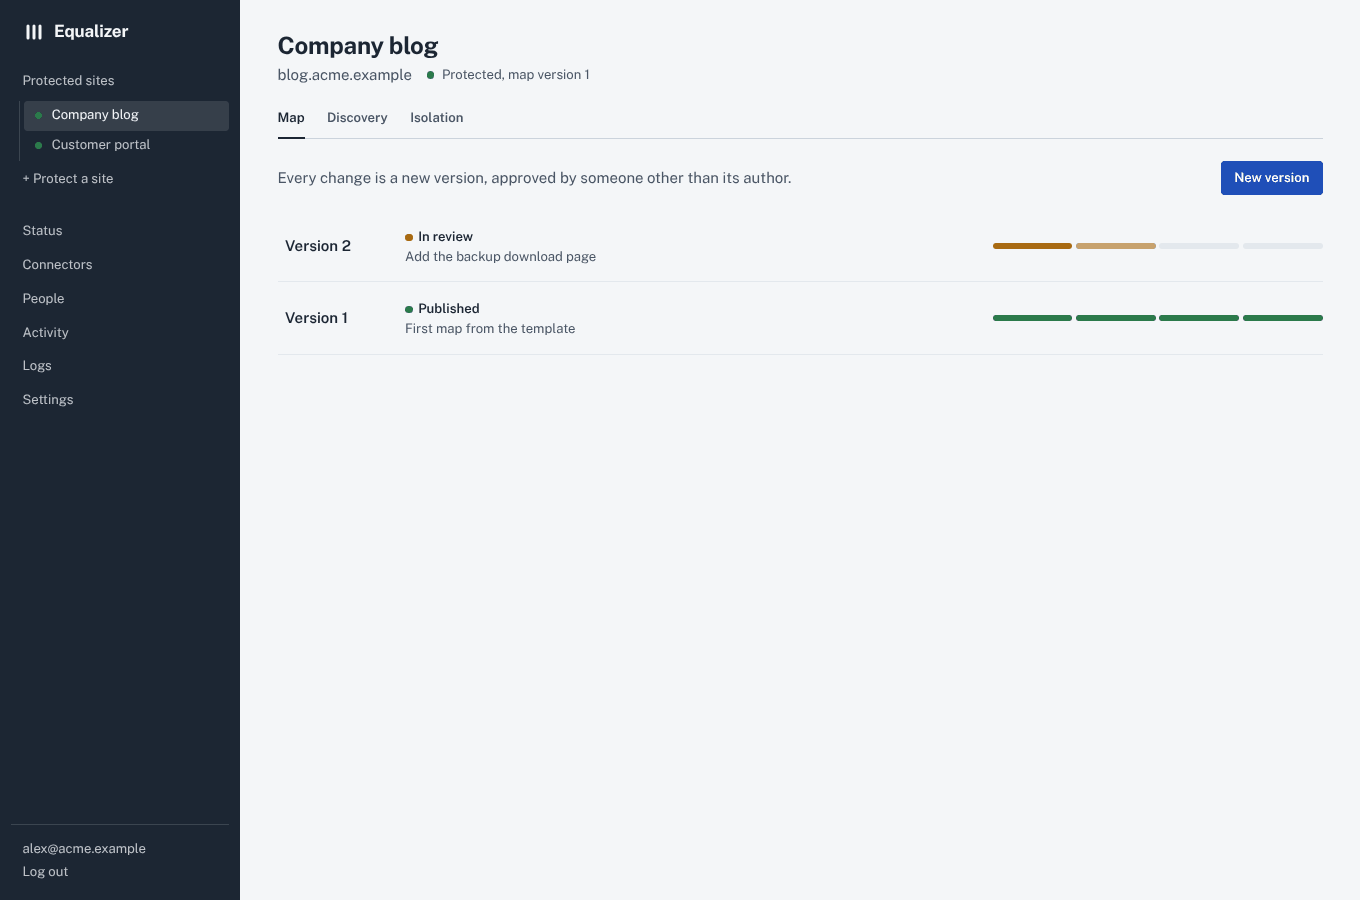
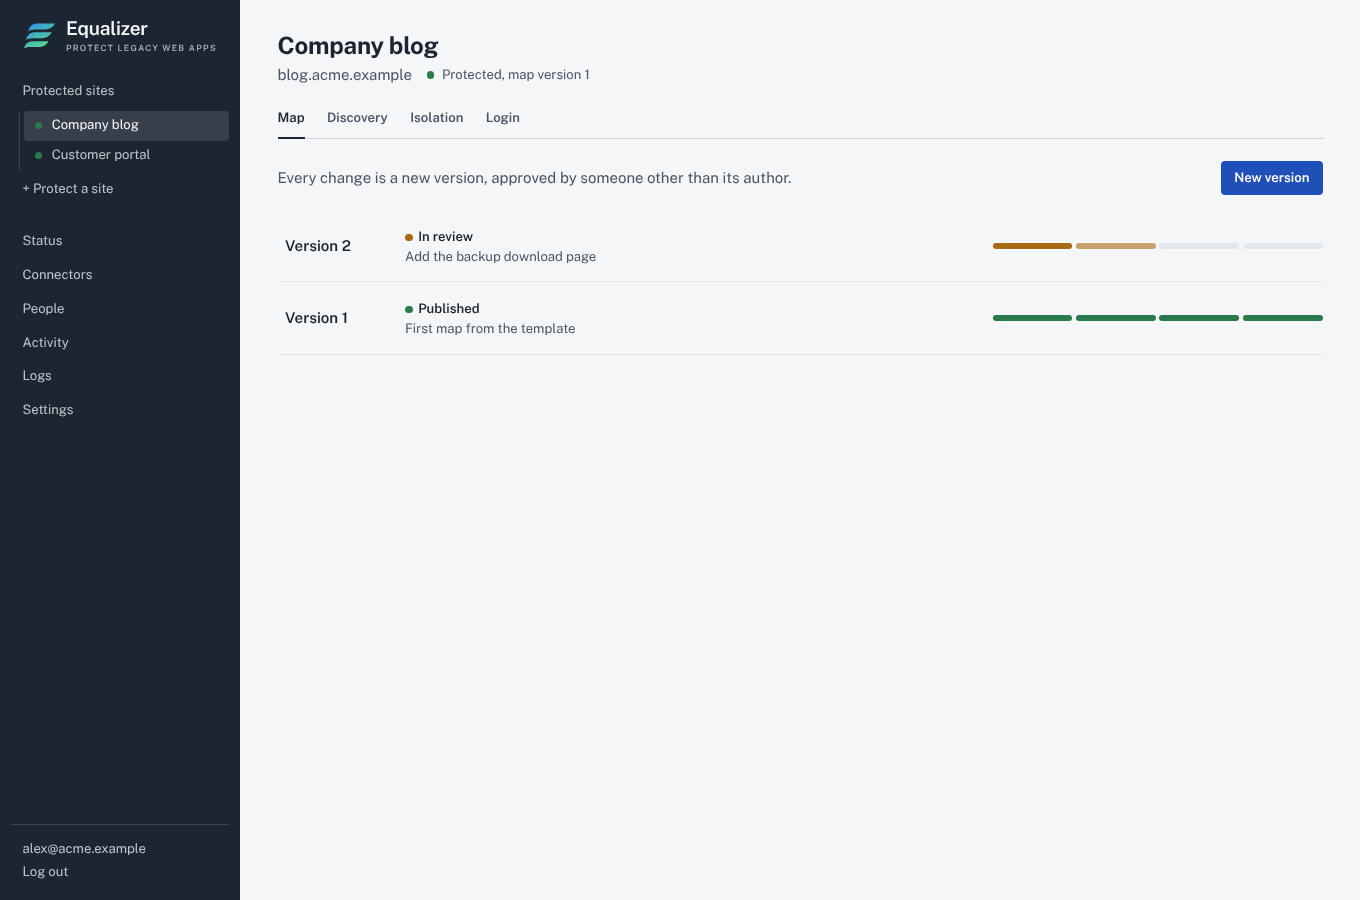
Fix legacy compatibility bugs, align docs, refresh screenshots
Carry the legacy HTTP login across the relay (X-Eq-Authorization), send a
canonical User-Agent per kind of device, ask the legacy app for identity
and decompress gzip/deflate answers, start new maps with the whole-site
area. Docs aligned with the code; screenshots show the new logo.

Claude-Session: https://claude.ai/code/session_01XxMwfaVPgDAqDmaG8GJEz2

Changed region(s): [[0.0, 0.0, 0.1853, 0.2178], [0.0, 0.2489, 0.0618, 0.4044], [0.0, 0.4044, 0.0618, 0.4667]]

diff --git a/panel-ui/src/features/maps/components/yaml.ts b/panel-ui/src/features/maps/components/yaml.ts
@@ -59,6 +59,16 @@ roles:
   list:
     guest: {}
 
+# The whole site, admin included, served as the legacy site serves it.
+areas:
+  - id: site
+    prefix: /
+    methods: [GET, HEAD, POST, PUT, PATCH, DELETE, OPTIONS]
+    max_body_kb: 51200
+    origin: human
+    risk: medium
+
+# Precise entries add typed checks where they match.
 routes:
   - id: home
     path: /

diff --git a/gateway/internal/useragent/useragent.go b/gateway/internal/useragent/useragent.go
@@ -1,0 +1,56 @@
+// Package useragent rebuilds the browser's User-Agent for the legacy
+// application. It never passes the string the client wrote (a classic way
+// to reach SQL and log injections in old apps): it recognises the kind of
+// device and browser and sends a fixed, ordinary string for it, so the
+// legacy site still picks its mobile or desktop version.
+package useragent
+
+import "strings"
+
+// Canonical strings, one per kind of browser.
+const (
+	ChromeWindows = "Mozilla/5.0 (Windows NT 10.0; Win64; x64) AppleWebKit/537.36 (KHTML, like Gecko) Chrome/131.0.0.0 Safari/537.36"
+	EdgeWindows   = "Mozilla/5.0 (Windows NT 10.0; Win64; x64) AppleWebKit/537.36 (KHTML, like Gecko) Chrome/131.0.0.0 Safari/537.36 Edg/131.0.0.0"
+	FirefoxDesk   = "Mozilla/5.0 (Windows NT 10.0; Win64; x64; rv:133.0) Gecko/20100101 Firefox/133.0"
+	SafariMac     = "Mozilla/5.0 (Macintosh; Intel Mac OS X 10_15_7) AppleWebKit/605.1.15 (KHTML, like Gecko) Version/18.1 Safari/605.1.15"
+	ChromeMac     = "Mozilla/5.0 (Macintosh; Intel Mac OS X 10_15_7) AppleWebKit/537.36 (KHTML, like Gecko) Chrome/131.0.0.0 Safari/537.36"
+	ChromeLinux   = "Mozilla/5.0 (X11; Linux x86_64) AppleWebKit/537.36 (KHTML, like Gecko) Chrome/131.0.0.0 Safari/537.36"
+	ChromeAndroid = "Mozilla/5.0 (Linux; Android 10; K) AppleWebKit/537.36 (KHTML, like Gecko) Chrome/131.0.0.0 Mobile Safari/537.36"
+	AndroidTablet = "Mozilla/5.0 (Linux; Android 10; K) AppleWebKit/537.36 (KHTML, like Gecko) Chrome/131.0.0.0 Safari/537.36"
+	SafariIPhone  = "Mozilla/5.0 (iPhone; CPU iPhone OS 18_1 like Mac OS X) AppleWebKit/605.1.15 (KHTML, like Gecko) Version/18.1 Mobile/15E148 Safari/604.1"
+	SafariIPad    = "Mozilla/5.0 (iPad; CPU OS 18_1 like Mac OS X) AppleWebKit/605.1.15 (KHTML, like Gecko) Version/18.1 Mobile/15E148 Safari/604.1"
+	IE11          = "Mozilla/5.0 (Windows NT 10.0; WOW64; Trident/7.0; rv:11.0) like Gecko"
+)
+
+// Canonical returns the fixed string for the browser described by ua, or
+// "" when ua is empty (the gateway's own User-Agent is used then).
+func Canonical(ua string) string {
+	if ua == "" {
+		return ""
+	}
+	u := strings.ToLower(ua)
+	has := func(s string) bool { return strings.Contains(u, s) }
+	switch {
+	case has("ipad"):
+		return SafariIPad
+	case has("iphone") || has("ipod"):
+		return SafariIPhone
+	case has("android") && has("mobile"):
+		return ChromeAndroid
+	case has("android"):
+		return AndroidTablet
+	case has("trident/") || has("msie "):
+		return IE11
+	case has("edg/"):
+		return EdgeWindows
+	case has("firefox/"):
+		return FirefoxDesk
+	case has("macintosh") && has("safari/") && !has("chrome/"):
+		return SafariMac
+	case has("macintosh"):
+		return ChromeMac
+	case has("linux") || has("x11"):
+		return ChromeLinux
+	}
+	return ChromeWindows
+}

diff --git a/gateway/internal/server/upload_area_test.go b/gateway/internal/server/upload_area_test.go
@@ -2,6 +2,7 @@ package server
 
 import (
 	"bytes"
+	"compress/gzip"
 	"crypto/sha256"
 	"io"
 	"mime/multipart"
@@ -10,6 +11,8 @@ import (
 	"os"
 	"path/filepath"
 	"testing"
+
+	"github.com/thevidocq/equalizer/gateway/internal/useragent"
 )
 
 func TestLargeUploadStreamed(t *testing.T) {
@@ -51,5 +54,30 @@ func TestLargeUploadStreamed(t *testing.T) {
 	left, _ := filepath.Glob(filepath.Join(os.Getenv("TMPDIR"), "eq-upload-*"))
 	if len(left) != 0 {
 		t.Errorf("temporary files left: %v", left)
+	}
+}
+
+func TestLegacyCompressionAndUserAgent(t *testing.T) {
+	var ua, ae string
+	legacy := httptest.NewServer(http.HandlerFunc(func(w http.ResponseWriter, r *http.Request) {
+		ua, ae = r.UserAgent(), r.Header.Get("Accept-Encoding")
+		w.Header().Set("Content-Type", "text/html")
+		w.Header().Set("Content-Encoding", "gzip") // some apps compress whatever was asked
+		zw := gzip.NewWriter(w)
+		_, _ = io.WriteString(zw, "<html><body><p>Ciao</p></body></html>")
+		_ = zw.Close()
+	}))
+	defer legacy.Close()
+	h := areaPublic(t, legacy.URL, 0).Handler()
+	req := httptest.NewRequest("GET", "/mobile", nil)
+	req.Host = "blog.example"
+	req.Header.Set("User-Agent", "Mozilla/5.0 (iPhone; CPU iPhone OS 17_5 like Mac OS X) Safari/604.1' OR '1'='1")
+	rec := httptest.NewRecorder()
+	h.ServeHTTP(rec, req)
+	if rec.Code != 200 || !bytes.Contains(rec.Body.Bytes(), []byte("<p>Ciao</p>")) || rec.Header().Get("Content-Encoding") != "" {
+		t.Fatalf("compressed page: %d %q %q", rec.Code, rec.Header().Get("Content-Encoding"), rec.Body.String())
+	}
+	if ua != useragent.SafariIPhone || ae != "identity" {
+		t.Errorf("towards the legacy app: UA %q, Accept-Encoding %q", ua, ae)
 	}
 }

diff --git a/gateway/internal/legacyclient/encoding.go b/gateway/internal/legacyclient/encoding.go
@@ -1,0 +1,42 @@
+package legacyclient
+
+import (
+	"compress/flate"
+	"compress/gzip"
+	"errors"
+	"io"
+	"net/http"
+	"strings"
+)
+
+// ErrEncoding reports a legacy answer compressed in a way the gateway cannot
+// read (it always asks for identity; some applications compress anyway).
+var ErrEncoding = errors.New("unsupported content encoding from the legacy application")
+
+// decode returns the body without its content encoding. The legacy
+// application is asked for identity; gzip and deflate are undone when it
+// compresses anyway, so pages can be rendered and files keep their bytes.
+func decode(resp *http.Response) (io.Reader, bool, error) {
+	switch strings.ToLower(strings.TrimSpace(resp.Header.Get("Content-Encoding"))) {
+	case "", "identity":
+		return resp.Body, false, nil
+	case "gzip", "x-gzip":
+		zr, err := gzip.NewReader(resp.Body)
+		if err != nil {
+			if errors.Is(err, io.EOF) { // empty body (HEAD, 204, 304)
+				return resp.Body, true, nil
+			}
+			return nil, false, ErrEncoding
+		}
+		return zr, true, nil
+	case "deflate":
+		return flate.NewReader(resp.Body), true, nil
+	}
+	return nil, false, ErrEncoding
+}
+
+// readCloser reads the decoded body and closes the connection's.
+type readCloser struct {
+	io.Reader
+	io.Closer
+}

diff --git a/gateway/internal/legacyclient/area.go b/gateway/internal/legacyclient/area.go
@@ -67,6 +67,7 @@ func (c *Client) BuildRaw(ctx context.Context, method, path, rawQuery string, bo
 		req.Header.Set("Content-Type", contentType)
 	}
 	req.Header.Set("User-Agent", c.userAgent)
+	req.Header.Set("Accept-Encoding", "identity")
 	return req, nil
 }
 
@@ -79,11 +80,22 @@ func (c *Client) Open(req *http.Request) (*Stream, error) {
 		cancel()
 		return nil, err
 	}
-	s := &Stream{Status: resp.StatusCode, Header: http.Header{}, Cookies: resp.Cookies(), Body: resp.Body, Start: start, cancel: cancel}
+	body, decoded, err := decode(resp)
+	if err != nil {
+		resp.Body.Close()
+		cancel()
+		return nil, err
+	}
+	s := &Stream{Status: resp.StatusCode, Header: http.Header{}, Cookies: resp.Cookies(), Body: readCloser{body, resp.Body}, Start: start, cancel: cancel}
 	for _, h := range areaResponseHeaders {
 		for _, v := range resp.Header.Values(h) {
 			s.Header.Add(h, v)
 		}
+	}
+	if decoded {
+		s.Header.Del("Content-Length")
+		s.Header.Del("Content-Range")
+		s.Header.Del("Accept-Ranges")
 	}
 	// The application's own headers (X-WP-Total, X-CSRF-Token, …): never
 	// those that name the legacy software or its internal address.

diff --git a/connector/internal/executor/executor_test.go b/connector/internal/executor/executor_test.go
@@ -33,6 +33,7 @@ func TestExecutor(t *testing.T) {
 		req.Host = host
 		req.Header.Set("X-Eq-Scheme", scheme)
 		req.Header.Set("X-Eq-Request-Id", "r-1")
+		req.Header.Set("X-Eq-Authorization", "Basic YWxleDpwdw==")
 		rec := httptest.NewRecorder()
 		e.ServeHTTP(rec, req)
 		return rec
@@ -42,7 +43,8 @@ func TestExecutor(t *testing.T) {
 	if rec.Code != 200 || rec.Body.String() != "legacy page" || rec.Header().Get("Server") != "Apache/2.2" {
 		t.Fatalf("response: %d %q %v", rec.Code, rec.Body.String(), rec.Header())
 	}
-	if seen.URL.RequestURI() != "/index.jsp?a=1" || seen.Header.Get("X-Eq-Scheme") != "" || seen.Header.Get("X-Eq-Request-Id") != "" {
+	if seen.URL.RequestURI() != "/index.jsp?a=1" || seen.Header.Get("X-Eq-Scheme") != "" || seen.Header.Get("X-Eq-Request-Id") != "" ||
+		seen.Header.Get("Authorization") != "Basic YWxleDpwdw==" || seen.Header.Get("X-Eq-Authorization") != "" {
 		t.Errorf("legacy saw %s %v", seen.URL.RequestURI(), seen.Header)
 	}
 	// The gateway translates redirects: the connector never follows them.

diff --git a/gateway/internal/useragent/useragent_test.go b/gateway/internal/useragent/useragent_test.go
@@ -1,0 +1,18 @@
+package useragent
+
+import "testing"
+
+func TestCanonical(t *testing.T) {
+	for in, want := range map[string]string{
+		"": "",
+		"Mozilla/5.0 (iPhone; CPU iPhone OS 17_5 like Mac OS X) AppleWebKit/605.1.15 (KHTML, like Gecko) Version/17.5 Mobile/15E148 Safari/604.1": SafariIPhone,
+		"Mozilla/5.0 (Linux; Android 14; Pixel 8) AppleWebKit/537.36 (KHTML, like Gecko) Chrome/130.0 Mobile Safari/537.36":                       ChromeAndroid,
+		"Mozilla/5.0 (Windows NT 10.0; Win64; x64) AppleWebKit/537.36 (KHTML, like Gecko) Chrome/130.0 Safari/537.36 Edg/130.0":                   EdgeWindows,
+		"Mozilla/5.0 (Macintosh; Intel Mac OS X 14_0) AppleWebKit/605.1.15 (KHTML, like Gecko) Version/17.0 Safari/605.1.15":                      SafariMac,
+		"sqlmap/1.8' OR 1=1 -- () { :; }; /bin/bash -c id":                                                                                        ChromeWindows,
+	} {
+		if got := Canonical(in); got != want {
+			t.Errorf("%q: %q", in, got)
+		}
+	}
+}

diff --git a/gateway/internal/server/sessionstate.go b/gateway/internal/server/sessionstate.go
@@ -11,6 +11,7 @@ import (
 	"github.com/thevidocq/equalizer/gateway/internal/mapmodel"
 	"github.com/thevidocq/equalizer/gateway/internal/session"
 	"github.com/thevidocq/equalizer/gateway/internal/site"
+	"github.com/thevidocq/equalizer/gateway/internal/useragent"
 )
 
 // Legacy cookies kept per session: a bound against a legacy app that sets
@@ -339,6 +340,9 @@ func legacySessionExpired(se *mapmodel.SessionExpired, status int, location stri
 func (p *Public) prepare(req *http.Request, r *http.Request, st *site.Site, ss *sessionState) {
 	ss.apply(req)
 	browserCookies(req, r, ss.s)
+	if ua := useragent.Canonical(r.UserAgent()); ua != "" {
+		req.Header.Set("User-Agent", ua) // the kind of browser, never its own string
+	}
 	if v := r.Header.Get("Authorization"); len(v) <= 8192 && authValue.MatchString(v) {
 		req.Header.Set("Authorization", v) // the legacy site's own HTTP login
 	}

diff --git a/gateway/internal/transport/relay_test.go b/gateway/internal/transport/relay_test.go
@@ -50,11 +50,15 @@ func TestRelayTransport(t *testing.T) {
 	do := func(method, target, body string) (*http.Response, error) {
 		ctx := telemetry.WithRequestID(context.Background(), "r-abc")
 		req, _ := http.NewRequestWithContext(ctx, method, target, strings.NewReader(body))
+		req.Header.Set("Authorization", "Basic YWxleDpwdw==") // the legacy site's own login
 		return rt.RoundTrip(req)
 	}
 	resp, err := do("POST", "http://10.20.0.15:8080/app/a%2Fb/save.do?x=1", "k=v")
 	if err != nil {
 		t.Fatal(err)
+	}
+	if seen.Header.Get("Authorization") != "Bearer "+token || seen.Header.Get("X-Eq-Authorization") != "Basic YWxleDpwdw==" {
+		t.Errorf("logins: relay %q, legacy %q", seen.Header.Get("Authorization"), seen.Header.Get("X-Eq-Authorization"))
 	}
 	b, _ := io.ReadAll(resp.Body)
 	if string(b) != "legacy page" {

diff --git a/gateway/internal/legacyclient/client.go b/gateway/internal/legacyclient/client.go
@@ -157,6 +157,7 @@ func (c *Client) BuildTyped(ctx context.Context, lr mapmodel.LegacyRequest, vals
 	}
 	req.Header.Set("User-Agent", c.userAgent)
 	req.Header.Set("Accept", accept)
+	req.Header.Set("Accept-Encoding", "identity")
 	return req, nil
 }
 
@@ -170,7 +171,11 @@ func (c *Client) Do(req *http.Request) (*Response, error) {
 		return nil, err
 	}
 	defer resp.Body.Close()
-	body, err := io.ReadAll(io.LimitReader(resp.Body, MaxBody+1))
+	rd, _, err := decode(resp)
+	if err != nil {
+		return nil, err
+	}
+	body, err := io.ReadAll(io.LimitReader(rd, MaxBody+1))
 	if err != nil {
 		return nil, fmt.Errorf("reading response: %w", err)
 	}

diff --git a/gateway/internal/transport/relay.go b/gateway/internal/transport/relay.go
@@ -106,6 +106,12 @@ func (t *relayTransport) RoundTrip(req *http.Request) (*http.Response, error) {
 	target.Fragment = ""
 	out.URL = &target
 	out.Host = t.cfg.URL.Host
+	// The legacy site's own HTTP login travels apart: Authorization carries
+	// the relay token (the connector puts it back).
+	out.Header.Del("X-Eq-Authorization")
+	if v := out.Header.Get("Authorization"); v != "" {
+		out.Header.Set("X-Eq-Authorization", v)
+	}
 	out.Header.Set("Authorization", "Bearer "+t.cfg.Token)
 	out.Header.Set("X-Eq-Connector", t.connector)
 	out.Header.Set("X-Eq-Tenant", t.tenant)

diff --git a/connector/internal/executor/executor.go b/connector/internal/executor/executor.go
@@ -57,6 +57,10 @@ func New(allow *allowlist.List, tlsConfig *tls.Config, log *slog.Logger) *Execut
 			pr.Out.URL.Scheme = pr.In.Header.Get("X-Eq-Scheme")
 			pr.Out.URL.Host = name
 			pr.Out.Host = name
+			pr.Out.Header.Del("Authorization") // only the legacy site's own login, below
+			if v := pr.In.Header.Get("X-Eq-Authorization"); v != "" {
+				pr.Out.Header.Set("Authorization", v)
+			}
 			for k := range pr.Out.Header {
 				if strings.HasPrefix(strings.ToLower(k), "x-eq-") {
 					pr.Out.Header.Del(k)
